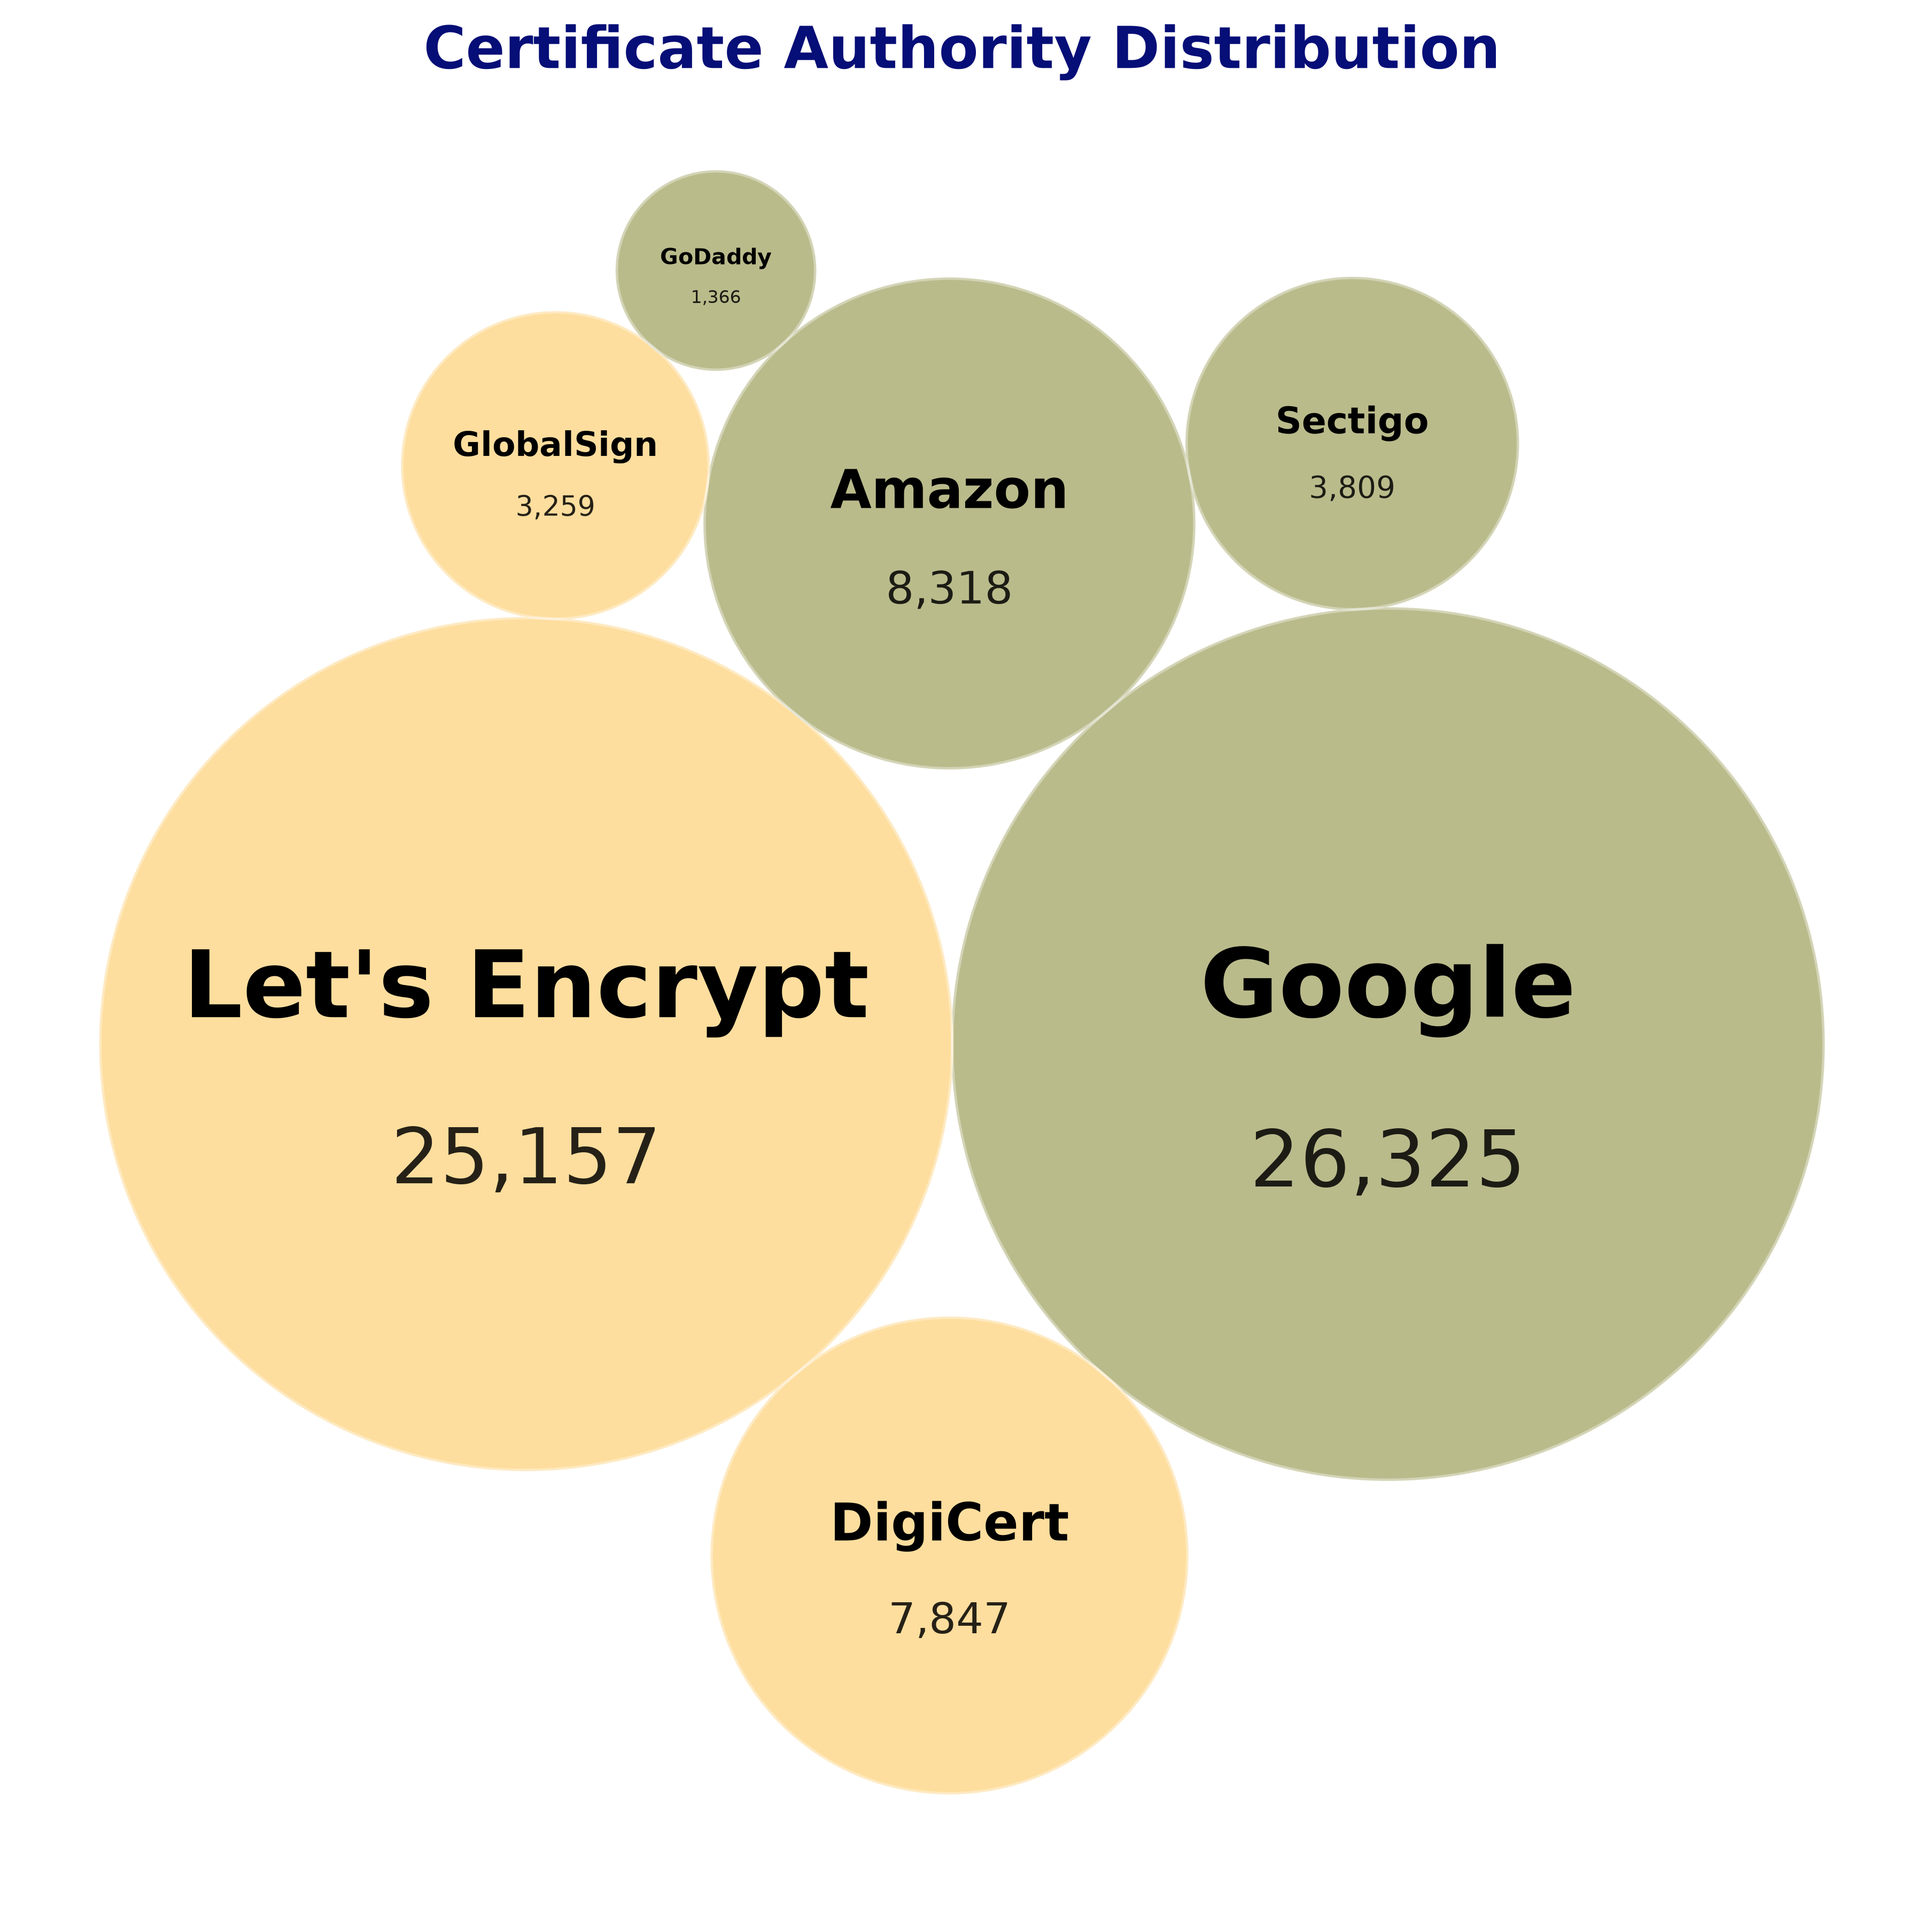
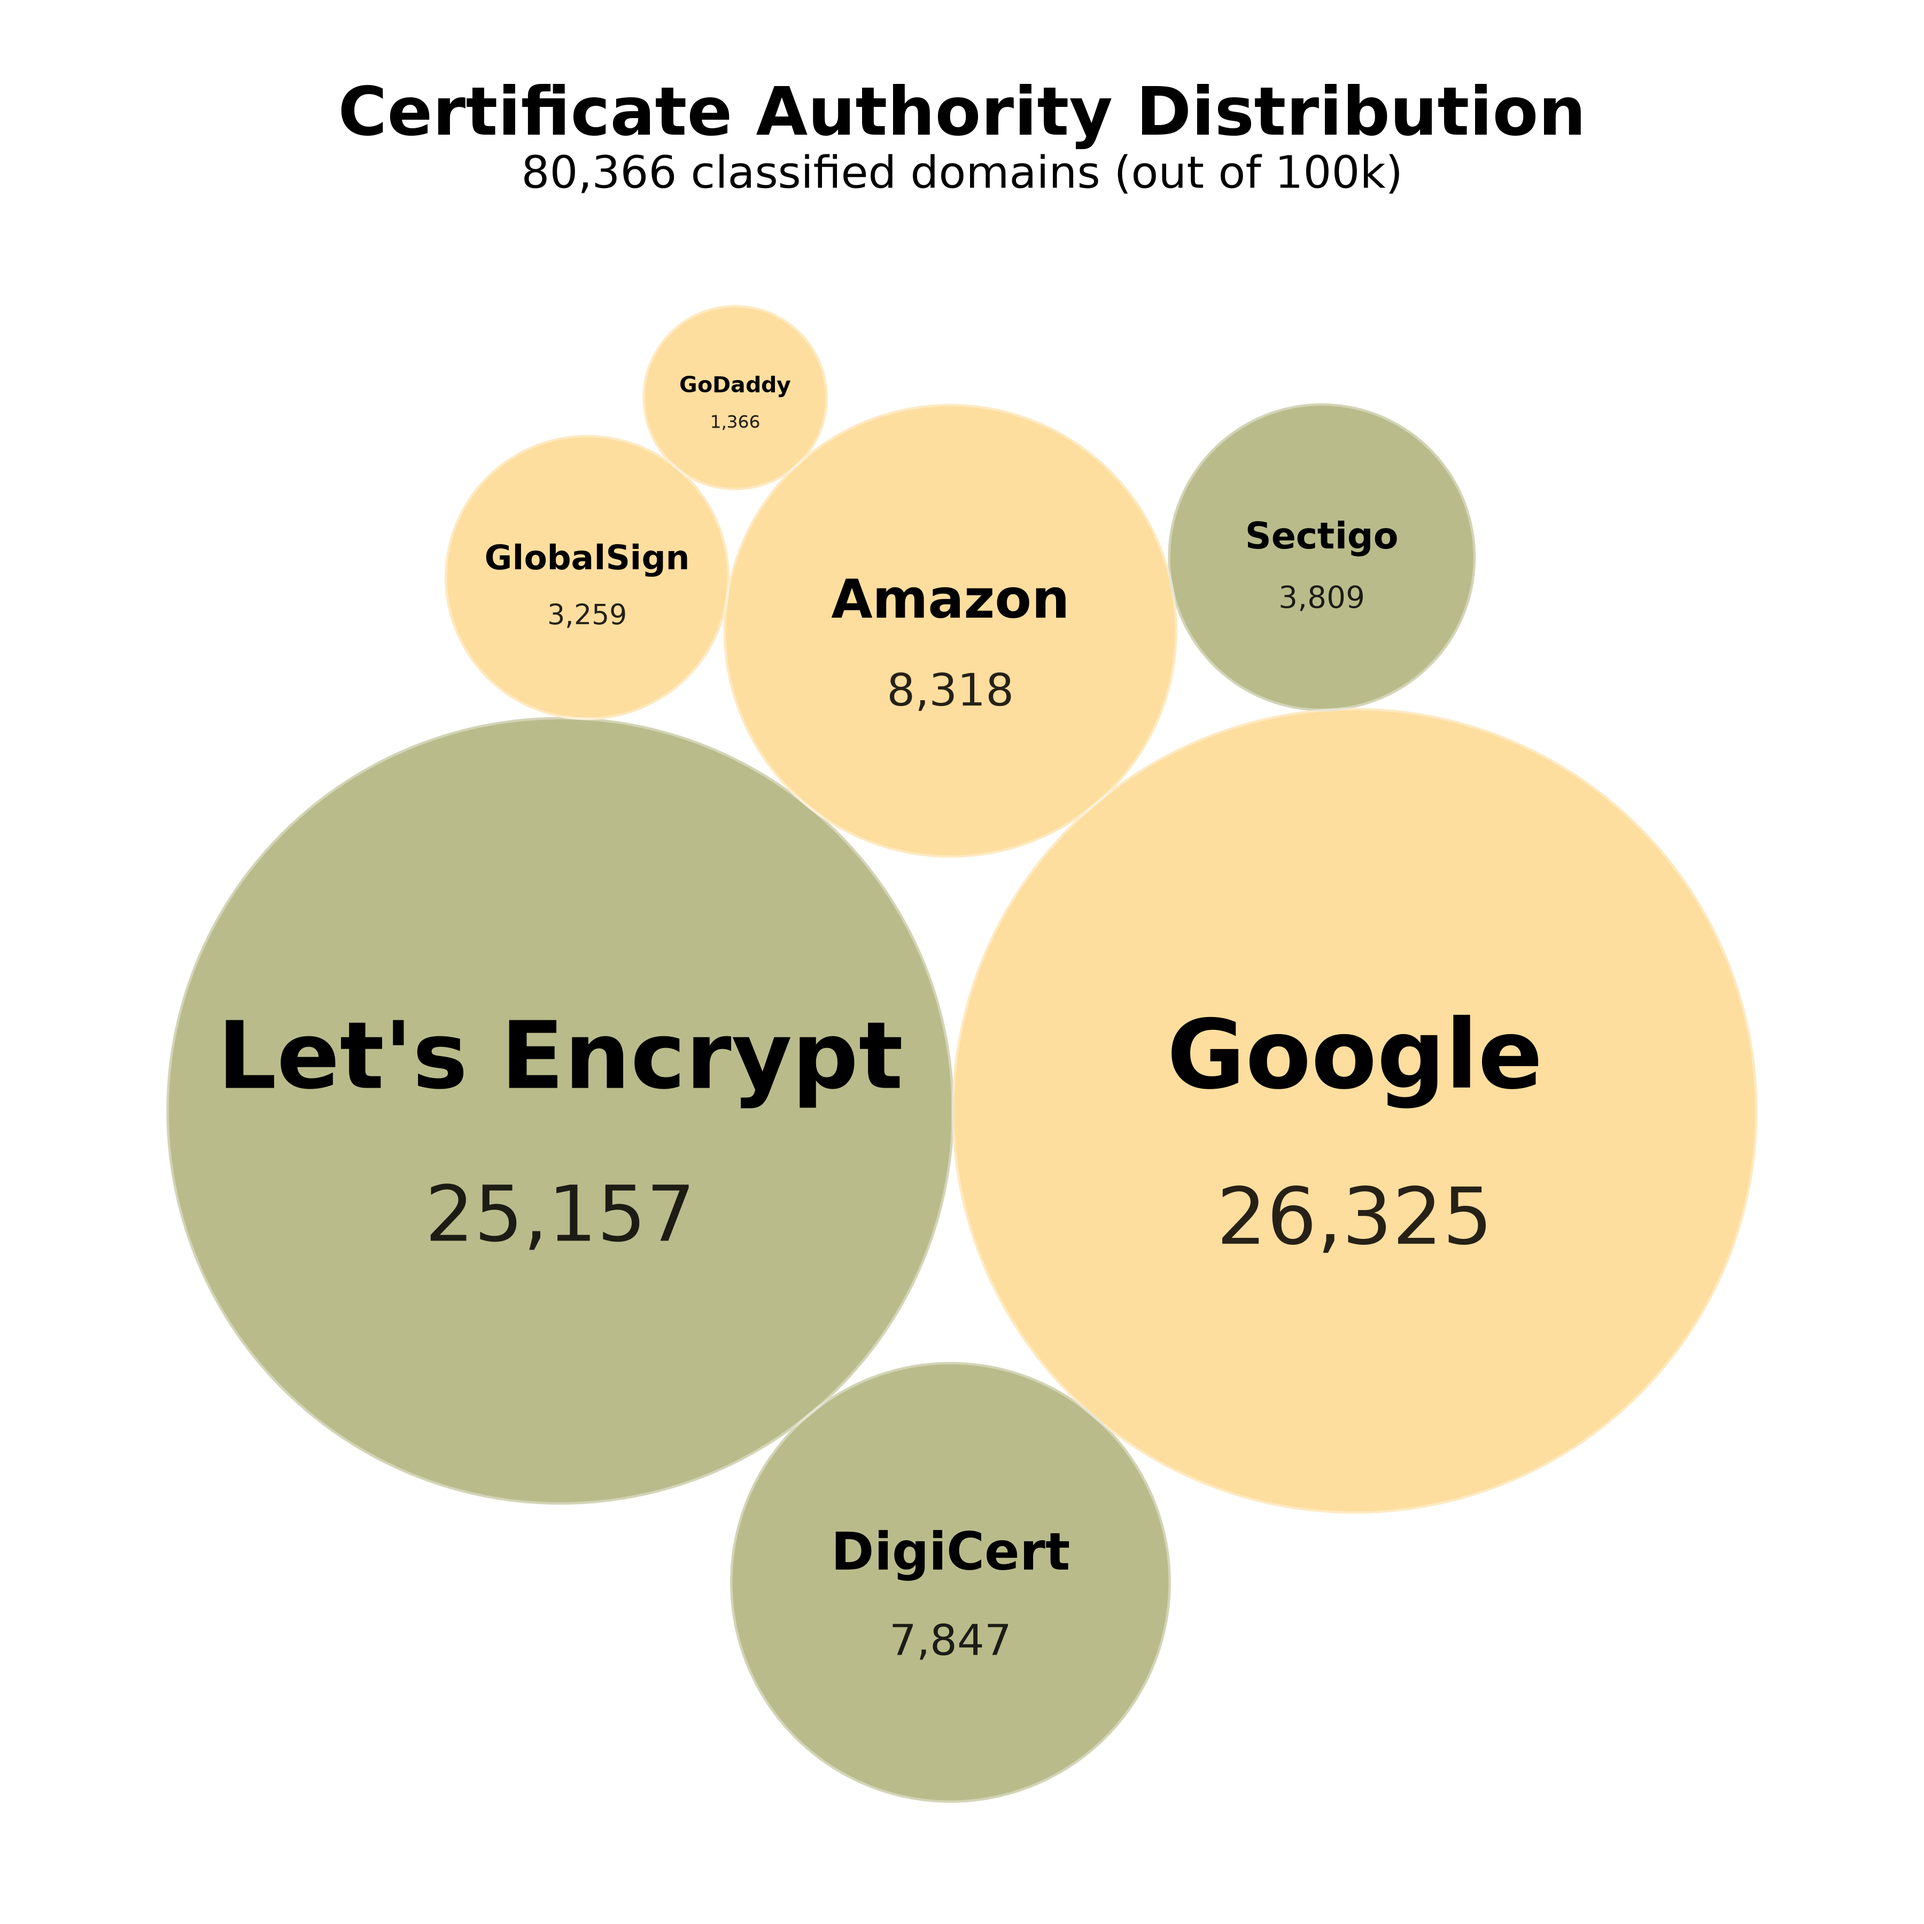
jyf

diff --git a/src/DNS_ThirdParty_Analysis/DNS_Data_Analysis.py b/src/DNS_ThirdParty_Analysis/DNS_Data_Analysis.py
@@ -263,7 +263,7 @@ def plot_provider_bubble(df: pd.DataFrame, save_path: str = "dns_bubble_chart_by
     total_domains = df_known["DOMAIN"].nunique()
 
     domain_provider_pairs = df_known.drop_duplicates(subset=["DOMAIN", "provider_clean"])
-    ca_counts = domain_provider_pairs["provider_clean"].value_counts().head(10)
+    ca_counts = domain_provider_pairs["provider_clean"].value_counts().head(7)
 
     sorted_pairs = sorted(zip(ca_counts.values.tolist(), ca_counts.index.tolist()), reverse=True)
     sorted_values, sorted_labels = zip(*sorted_pairs)
@@ -274,15 +274,15 @@ def plot_provider_bubble(df: pd.DataFrame, save_path: str = "dns_bubble_chart_by
         target_enclosure=circlify.Circle(x=0, y=0, r=1)
     )[::-1]
 
-    BG = "#63676F"
+    BG = "white"
     PALETTE = [
-        "#1B2C72", "#2E86C1", "#300F42",
-        "#0E222EA6", "#05281790", "#16395239",
-        "#1A5276", "#154360", "#21618C", "#0B3957"
-    ]
-    TEXT_LIGHT = "#FDFEFEDD"
+            "#B5B682", "#B5B682", "#FEDC97",
+            "#FEDC97", "#B5B682", "#FEDC97",
+            "#FEDC97"
+        ]
+    TEXT_LIGHT = "black"
 
-    fig, ax = plt.subplots(figsize=(16, 16))
+    fig, ax = plt.subplots(figsize=(12, 12))
     ax.set_aspect("equal")
     ax.axis("off")
     fig.patch.set_facecolor(BG)
@@ -295,7 +295,7 @@ def plot_provider_bubble(df: pd.DataFrame, save_path: str = "dns_bubble_chart_by
         ax.add_patch(plt.Circle((x, y), r, fill=False, edgecolor="white", linewidth=1.2, alpha=0.4, zorder=3))
 
         if r > 0.04:
-            fontsize = max(20, min(13, r * 30))
+            fontsize = min(26, max(9, r * 110))
             short_label = label.upper() if len(label) <= 14 else label[:13].upper() + "…"
             ax.text(x, y + r * 0.15, short_label, ha="center", va="center",
                     fontsize=fontsize, fontweight="bold", color=TEXT_LIGHT, zorder=4)
@@ -310,13 +310,16 @@ def plot_provider_bubble(df: pd.DataFrame, save_path: str = "dns_bubble_chart_by
     ax.set_xlim(-lim, lim)
     ax.set_ylim(-lim, lim)
 
-    fig.text(0.5, 0.97, "Top DNS Providers by Domain Reach", ha="center", va="top",
-              fontsize=20, fontweight="bold", color="#DAE0E6")
-    fig.text(0.5, 0.93, f"Top 10 providers across {total_domains:,} domains "
-                         f"({len(df_known):,} nameservers analysed)",
-              ha="center", va="top", fontsize=12, color="#DDE2E8")
+    # Tightened vertical gap between title and subtitle (was 0.97 / 0.93,
+    # a 0.04 gap -- now 0.975 / 0.952, a 0.023 gap) so they read as one
+    # header block instead of two separately-floating lines.
+    fig.text(0.5, 0.975, "Top DNS Providers by Domain Reach", ha="center", va="top",
+              fontsize=20, fontweight="bold", color="black")
+    fig.text(0.5, 0.952, f"Top 7 providers across {total_domains:,} domains "
+                         f"(85,699 nameservers analysed)",
+              ha="center", va="top", fontsize=12, color="black")
 
-    plt.tight_layout(rect=[0, 0, 1, 0.93])
+    plt.tight_layout(rect=[0, 0, 1, 0.945])
     plt.savefig(save_path, dpi=180, bbox_inches="tight", facecolor=BG)
     plt.show()
 
@@ -372,8 +375,8 @@ def main():
     df = load_data(FILES["100,000 Domains"])
     #plot_type_pie(df)
     #plot_top_providers(df, top_n=5)
-    #plot_provider_bubble(df)
-    plot_dependency_breakdown(df)
+    plot_provider_bubble(df)
+    #plot_dependency_breakdown(df)
 
 
 if __name__ == "__main__":

diff --git a/src/CA_ThirdParty_Analysis/CA_Data_Analysis.py b/src/CA_ThirdParty_Analysis/CA_Data_Analysis.py
@@ -242,17 +242,12 @@ def plot_ca_name_bubble_chart(df: pd.DataFrame, top_n: int = 7) -> None:
     ax.axis("off")
     fig.patch.set_facecolor("white")
     ax.set_facecolor("white")
-
-    DARK_BLUE = "#B5B682"
-    TEAL = "#FEDC97"
     WHITE = "black"
-    max_val = sorted_values[0]
 
-    BG = "#63676F"
     PALETTE = [
-        "#B5B682", "#FEDC97", "#B5B682",
         "#FEDC97", "#B5B682", "#FEDC97",
-        "#B5B682", "#FEDC97", "#B5B682", "#FEDC97"
+        "#B5B682", "#B5B682", "#FEDC97",
+        "#FEDC97"
     ]
     TEXT_LIGHT = "#FDFEFEDD"
 
@@ -281,10 +276,9 @@ def plot_ca_name_bubble_chart(df: pd.DataFrame, top_n: int = 7) -> None:
     ax.set_xlim(-lim, lim)
     ax.set_ylim(-lim, lim)
 
-    plt.title(
-        "Certificate Authority Distribution",
-        fontsize=26, fontweight="bold", pad=10, color="#060E77",
-    )
+    plt.title("Certificate Authority Distribution", fontsize=30, fontweight="bold", color="black", y = 1.05)
+    plt.suptitle(f'80,366 classified domains (out of 100k)', fontsize=20, y=0.92)
+
     plt.tight_layout()
     plt.savefig("src/Source_Data/ca_datavis/ca_bubble.png", dpi=300)
     plt.show()
@@ -378,13 +372,13 @@ def plot_comparative_metrics():
 # Run the full suite
 # ---------------------------------------------------------------------------
 def run_all(input_path: str = DEFAULT_INPUT_PATH) -> None:
-    #df = load_data(input_path)
-    #df = filter_classified(df)
+    df = load_data(input_path)
+    df = filter_classified(df)
     #plot_ca_type_distribution(df)
     #plot_https_distribution(df)
     #plot_tls_distribution(df)
     #compute_four_bar()
-    #plot_ca_name_bubble_chart(df)
-    plot_comparative_metrics()
+    plot_ca_name_bubble_chart(df)
+    #plot_comparative_metrics()
 if __name__ == "__main__":
     run_all()
